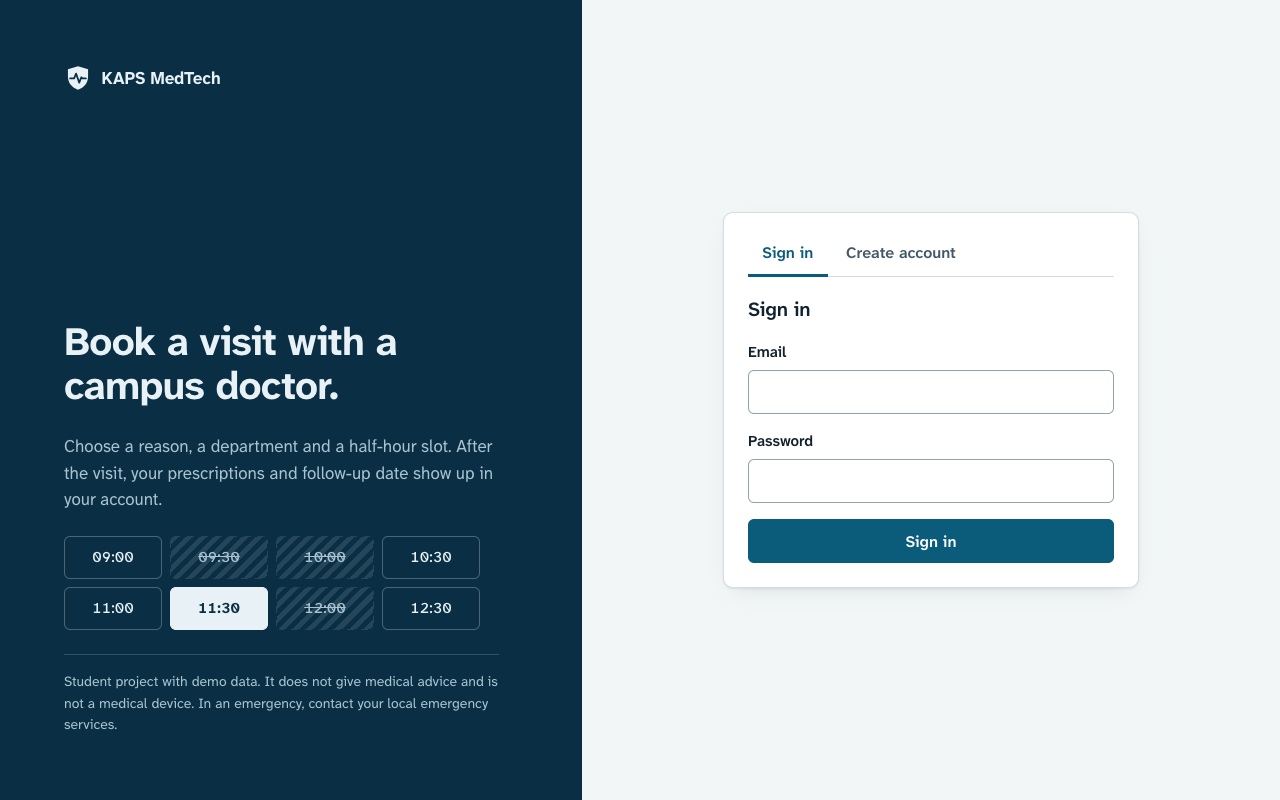
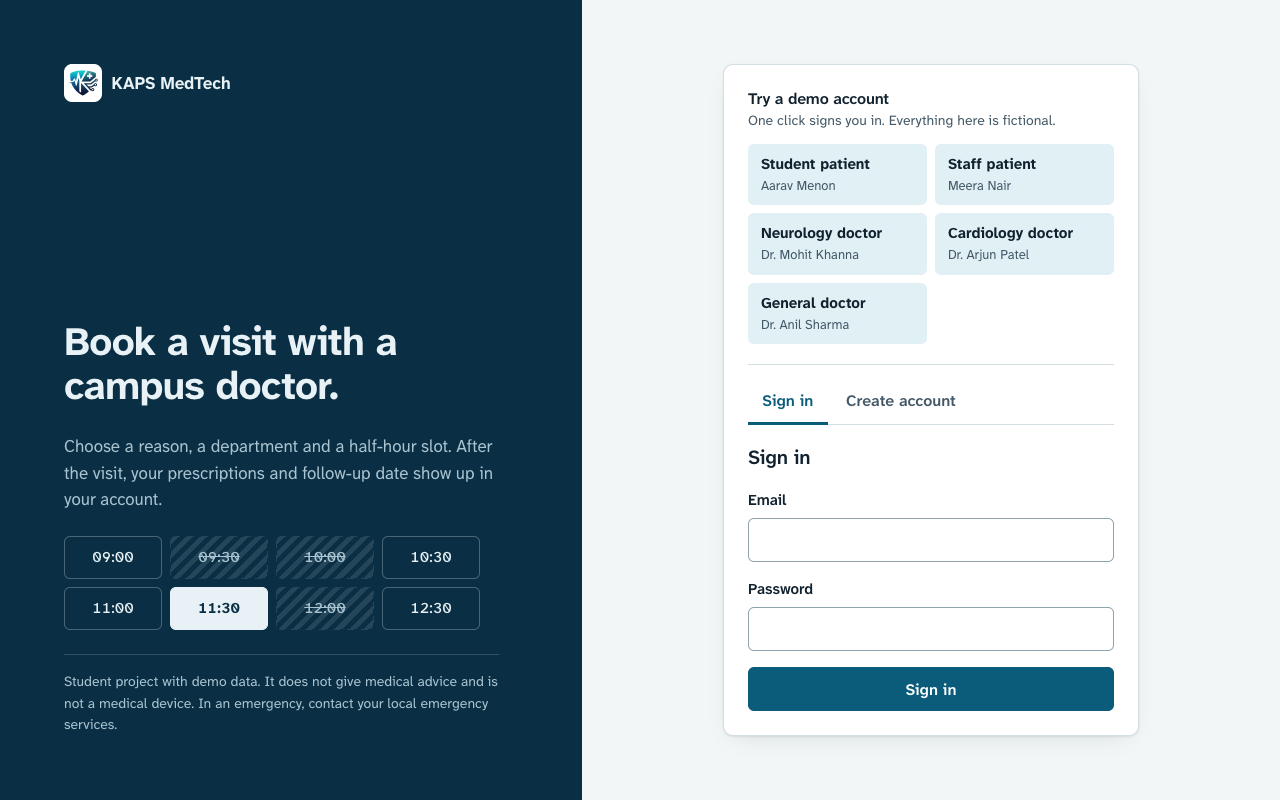
docs: demo credentials, new features, env, limits; refresh screenshots and API notes

diff --git a/README.md b/README.md
@@ -4,7 +4,7 @@
 
 A university clinic booking app. Students and staff pick a reason for a visit, a department, a doctor and a half-hour slot. Doctors work through a queue, record a diagnosis and prescriptions, and the patient sees the result in their account. It is a course project, built with Express, PostgreSQL and plain JavaScript.
 
-Hosted copy: https://kaps-medtech.vercel.app. It runs on free tiers. Its database is a free Neon project that can be paused or removed, and `/api/health` on that URL shows whether the database is reachable.
+Hosted copy: https://kaps-medtech.vercel.app. It runs on free tiers. The database behind it can be paused or removed, and `/api/health` on that URL shows whether it is reachable. At the last check (26 October 2026) the database was gone; [docs/DEPLOYMENT.md](docs/DEPLOYMENT.md) explains how to bring up a new one.
 
 ![Sign-in page](docs/screenshots/login-desktop.png)
 
@@ -14,17 +14,21 @@ This is a student project with fictional demo data. It gives no medical advice a
 
 ## What it does
 
-Students and staff can book with a doctor in three steps. While they type a reason, the page suggests a department and warns if they choose a different one. They can list and filter their appointments, open the record of a finished visit, see the medicines that are still running (a prescription drops off the list when its duration ends) and see upcoming follow-up dates.
+Students and staff book with a doctor in three steps. While they type a reason, the page suggests a department and warns if they choose a different one. Each doctor card shows the days and hours that doctor works, and the time picker only offers slots inside them. Patients can list and filter their appointments, reschedule or cancel a booked one, open the record of a finished visit (with any attached report), see the medicines that are still running (a prescription drops off the list when its duration ends) and see upcoming follow-up dates.
 
-Doctors see their booked appointments grouped by day. Starting a visit shows the patient's earlier records. The treatment form takes a diagnosis, advice, a follow-up date, up to 20 prescriptions and an optional PNG, JPEG, WebP, GIF or PDF report up to 2 MB. Saving it marks the visit complete. Doctors can also cancel an appointment.
+Doctors see their booked appointments grouped by day. Starting a visit shows the patient's earlier records. The treatment form takes a diagnosis, advice, a follow-up date, up to 20 prescriptions and an optional PNG, JPEG, WebP, GIF or PDF report up to 2 MB. Saving it marks the visit complete. Doctors can also cancel an appointment. On the Availability tab they set their working days and hours and add blocks of days off; bookings that already exist are kept and the doctor is told how many fall outside the new settings. Patient lookups, saved records and doctor cancellations are written to an audit table.
 
 | Booking | Appointments on a phone |
 | --- | --- |
 | ![Booking page with a department suggestion](docs/screenshots/student-booking-desktop.png) | ![Appointments list at 390px](docs/screenshots/student-appointments-mobile.png) |
 
-| Doctor queue | Treatment form |
+| Doctor queue | Availability |
 | --- | --- |
-| ![Doctor queue](docs/screenshots/doctor-queue-desktop.png) | ![Treatment form](docs/screenshots/doctor-treatment-desktop.png) |
+| ![Doctor queue](docs/screenshots/doctor-queue-desktop.png) | ![Doctor availability](docs/screenshots/doctor-availability-desktop.png) |
+
+| Treatment form | Records and medicines |
+| --- | --- |
+| ![Treatment form](docs/screenshots/doctor-treatment-desktop.png) | ![Medicines](docs/screenshots/student-medicines-desktop.png) |
 
 ## How it is put together
 
@@ -43,11 +47,13 @@ git clone https://github.com/pushpam2404/KAPS-Medtech.git
 cd KAPS-Medtech
 npm ci
 cp .env.example backend/.env     # then fill in DATABASE_URL and JWT_SECRET
-npm run db:init                  # creates the tables and demo data
+npm run db:reset:demo            # tables, doctors, symptoms and a demo clinic's worth of data
 npm start                        # http://localhost:3001
 ```
 
-`npm run db:init` drops and recreates every table, so use an empty database.
+The sign-in page then shows the demo accounts as one-click buttons.
+
+`npm run db:init` creates only the tables, the 65 seeded doctors and the symptom list. `npm run db:seed:demo` adds the demo patients and visits to a database that has the schema (or to an empty one) and can be run repeatedly. `npm run db:migrate` upgrades an older database without dropping anything. Every command that loads `schema.sql` drops existing tables, so use an empty database.
 
 Environment variables (see `.env.example`):
 
@@ -58,35 +64,50 @@ Environment variables (see `.env.example`):
 | `PORT` | no | defaults to 3001 |
 | `DOCTOR_SIGNUP_CODE` | no | doctors can register themselves only if this is set, and must enter it |
 | `ALLOWED_ORIGINS` | no | comma-separated origins for cross-site API calls |
-| `DB_SSL` | no | `true` to force SSL for databases other than Neon and Supabase |
+| `DATABASE_SSL` | no | `verify` (default whenever SSL is used), `relaxed` (encrypt, skip the certificate check) or `off` |
+| `DATABASE_CA` | no | PEM text of an extra CA to trust, for a private CA such as Supabase's pooler |
+| `DEMO_MODE` | no | `off` hides the demo accounts on the sign-in page |
+| `ALLOW_DEMO_SEED` | no | `1` lets the demo seed commands run when `NODE_ENV=production` |
 
 ## Demo accounts
 
-The seed data creates 65 doctors, five per department, with emails like `gp1@health.edu`, `cardio1@health.edu`, `neuro1@health.edu`, `ortho1@health.edu` and `dent1@health.edu`. All of them use the password `password123`. That is the reason to change or delete them before using the code for anything real. Dr. Mohit Khanna (neurology) is `neuro1@health.edu`.
+Every demo account uses the password `password123`.
 
-There are no seeded patients. Create one on the sign-up tab and book with any doctor. To see the doctor side, sign in as that doctor.
+| Role | Name | Email |
+| --- | --- | --- |
+| Student patient | Aarav Menon | `aarav.menon@example.edu` |
+| Staff patient | Meera Nair | `meera.nair@example.edu` |
+| Doctor, neurology | Dr. Mohit Khanna | `neuro1@health.edu` |
+| Doctor, cardiology | Dr. Arjun Patel | `cardio1@health.edu` |
+| Doctor, general medicine | Dr. Anil Sharma | `gp1@health.edu` |
+
+Those are the roles the app has: student, staff and doctor. The seeded doctors in every department follow the pattern `gp1`, `cardio1`, `pulmo1`, `gas1`, `neuro1`, `ortho1`, `derma1`, `psy1`, `ent1`, `eye1`, `endo1`, `neph1`, `dent1` at `@health.edu`, with numbers 1 to 5 in each.
+
+The demo seed gives Aarav and Meera finished visits with diagnoses, prescriptions and generated sample reports (a small chart image and a PDF), medicines that are still running and some that have ended, follow-up dates, upcoming bookings and a cancelled one. Dr. Khanna has six booked patients today. Dr. Patel works Tuesday to Saturday, 10:00 to 16:00, with a block of days off next week; Dr. Menon (orthopedics) sees patients on Monday, Wednesday and Friday. Six more patients fill the queues. Dates are relative to the day you seed, so run `npm run db:seed:demo` again if the data has gone stale.
+
+Doctor sign-up still needs `DOCTOR_SIGNUP_CODE`. The demo doctors do not, because they come from the seed.
 
 ## Tests
 
 ```bash
-npm test                         # unit tests for slots, durations, symptom matching and input checks
+npm test                         # unit tests for slots, availability, durations, symptom matching, input checks and TLS settings
 DATABASE_URL=postgresql://... npm run test:integration
 ```
 
-The integration suite starts the app on a random port and runs against whatever database `DATABASE_URL` points to, after `npm run db:init`. It covers sign-up and login rules, booking, rescheduling, four simultaneous bookings of one slot, doctor access limits, record validation and cancellation. It adds test users and appointments, so do not point it at a database you care about. GitHub Actions runs both suites against PostgreSQL 16 on every push (`.github/workflows/ci.yml`).
+The integration suite starts the app on a random port and runs against whatever database `DATABASE_URL` points to, after `npm run db:init`. It covers sign-up and login rules, booking, rescheduling and patient cancellation, four simultaneous bookings of one slot, doctor access limits, record validation, availability and days off, and running the demo seed twice. It adds test users and appointments, so do not point it at a database you care about. GitHub Actions runs both suites against PostgreSQL 16 on every push (`.github/workflows/ci.yml`).
 
 ## Deploying
 
-[docs/DEPLOYMENT.md](docs/DEPLOYMENT.md) covers Neon and Vercel. Set `JWT_SECRET` and `DATABASE_URL` as environment variables there, never in the repository.
+[docs/DEPLOYMENT.md](docs/DEPLOYMENT.md) covers a fresh free Neon database (`scripts/setup-neon.sh`) and Vercel. Set `JWT_SECRET` and `DATABASE_URL` as environment variables there, never in the repository.
 
 ## Limitations
 
-- Slots are the same for every doctor (09:00 to 17:00 in half hours). Doctor availability is not modelled.
-- Patients cannot cancel their own appointments, and the web UI has no reschedule screen even though the API supports it.
+- Every doctor's slots are half an hour long, and a doctor has one set of working hours for all their working days.
 - The rate limiter keeps its counts in memory, so on serverless hosting it only slows guessing down.
-- Reports are stored as base64 text in the database, and the login token is kept in `localStorage`.
-- There is no email or SMS reminder, password reset or audit log.
-- Hosted databases are connected without certificate verification (`rejectUnauthorized: false` in `backend/db.js`).
+- Reports are stored as base64 text in the database, and the login token is kept in `localStorage`, so a script-injection bug would expose it. Output is escaped and a Content-Security-Policy is sent, but httpOnly cookies would be safer. I left the token where it is because moving it touches every request and was not worth the risk here.
+- There is no email or SMS reminder, no password reset, and no screen for reading the audit table.
+- Hosted databases are connected with certificate verification. Neon works as is; Supabase's pooler needs `DATABASE_CA` or `DATABASE_SSL=relaxed`.
+- The demo password is shared and public. Set `DEMO_MODE=off` and remove the demo accounts before any real use.
 
 ## License
 

diff --git a/docs/API.md b/docs/API.md
@@ -28,17 +28,16 @@ Returns 201 on success, 400 for bad input, 403 for a doctor signup without a val
 | Route | What it does |
 | --- | --- |
 | `GET /api/appointments/symptoms?q=` | Symptom dictionary. With `q`, up to 10 rows ranked by how well they match the text. No login needed. |
-| `GET /api/appointments/doctors?department=` | Doctors, optionally for one department. |
-| `GET /api/appointments/slots?doctor_id=&date=` | Free slots for that doctor and day. |
-| `POST /api/appointments/book` | Body `{ doctor_id, date, time, symptom }`. 201, or 409 if the slot is taken, 400 for a past date, a time that is not a slot, or an unknown doctor. |
+| `GET /api/appointments/doctors?department=` | Doctors, optionally for one department, with `working_days` (ISO, 1 = Monday), `start_time` and `end_time`. |
+| `GET /api/appointments/slots?doctor_id=&date=` | Free slots for that doctor and day. Empty on a non-working weekday or a day off; 404 for an unknown doctor. |
+| `POST /api/appointments/book` | Body `{ doctor_id, date, time, symptom }`. 201, or 409 if the slot is taken, 400 for a past date, a time outside the doctor's hours or working days (or a day off), or an unknown doctor. |
 | `GET /api/appointments/my-appointments` | Booked appointments. `?filter=date&start=&end=` or `?filter=reason&q=` returns every status. |
-| `PUT /api/appointments/:id/reschedule` | Body `{ date, time }`. Own, still-booked appointments only. |
+| `PUT /api/appointments/:id/reschedule` | Body `{ date, time }`. Own, still-booked appointments only; same rules as booking. |
+| `POST /api/appointments/:id/cancel` | Cancels the patient's own booked appointment. 400 if it is not booked, 403 if it is not theirs. |
 | `GET /api/appointments/medical-records` | Own records with prescriptions. |
 | `GET /api/appointments/:id/record` | One record. Allowed for the patient and the treating doctor. |
 | `GET /api/appointments/my-medicine` | Prescriptions whose duration has not run out. A duration that is not a number of days ("ongoing") never runs out. |
 | `GET /api/appointments/reminders` | Follow-up dates from today onward. |
-
-The web UI does not call `reschedule` yet.
 
 ## Doctors (role `doctor`)
 
@@ -49,6 +48,14 @@ The web UI does not call `reschedule` yet.
 | `POST /api/doctor/record` | Completes a booked appointment of this doctor's. Body: `appointment_id`, `diagnosis`, optional `advice`, `follow_up_date`, `prescriptions` (`[{ name, dosage, freq, duration }]`, at most 20), `attached_reports` and `patient_updates` (`{ phone, identifier }`). `attached_reports` is a base64 data URL for PNG, JPEG, WebP, GIF or PDF, about 2 MB at most. All of it happens in one transaction. |
 | `POST /api/doctor/cancel` | Body `{ appointment_id }`. Cancels one of this doctor's booked appointments. |
 
+| `GET /api/doctor/availability` | `{ start_time, end_time, working_days, days_off: [{ id, start_date, end_date, reason }] }` for this doctor (upcoming days off only). |
+| `PUT /api/doctor/availability` | Body `{ start_time, end_time, working_days }`. Half-hour times between 06:00 and 22:00, end after start, at least one day. Also returns `outside_new_hours`, the number of booked future appointments that no longer fit. They are not moved. |
+| `POST /api/doctor/days-off` | Body `{ start_date, end_date, reason }` (`end_date` optional). Not in the past, at most a year. Returns `{ id, booked_in_range }`. |
+| `DELETE /api/doctor/days-off/:id` | Removes one of this doctor's blocks. |
+
 ## Other
+
+`GET /api/demo-accounts` returns `{ password, accounts }` for the sign-in page's demo buttons, or an empty list when `DEMO_MODE=off`.
+
 
 `GET /api/health` returns 200 when the database answers and 503 when it does not.

diff --git a/docs/ARCHITECTURE.md b/docs/ARCHITECTURE.md
@@ -20,11 +20,16 @@ On Vercel the same app runs as one serverless function (`vercel.json` sends ever
 backend/
   server.js        app setup; exports the app so tests can start it on any port
   db.js            pg pool, DATE columns returned as strings
-  schema.sql       tables, indexes, demo doctors and symptoms
-  init_db.js       loads schema.sql
+  schema.sql       tables, indexes, 65 seeded doctors and the symptom list
+  migrations.sql   idempotent upgrade for an existing database (npm run db:migrate)
+  init_db.js       loads schema.sql or migrations.sql
+  seed_demo.js     demo patients, visits, reports; guarded against production
   routes/          auth, appointments (patients), doctor
   middleware/      JWT check, doctor-only check, rate limiter, error handler
-  lib/clinic.js    slots, durations, symptom matching (no database)
+  lib/clinic.js    slots, availability, durations, symptom matching (no database)
+  lib/schedule.js  what a doctor offers on a date, from the database
+  lib/ssl.js       TLS settings for the database connection
+  lib/audit.js, lib/demo.js
   lib/validate.js  input checks (no database)
 frontend/          index.html, dashboard_user.html, dashboard_doctor.html, css/, js/
 test/unit          tests for lib/
@@ -33,7 +38,7 @@ test/integration   API tests against a real PostgreSQL
 
 ## Data
 
-Six tables: `Users`, `Doctors` (one per doctor user), `Symptoms` (name to department), `Appointments`, `MedicalRecords` (one per completed appointment) and `Prescriptions`.
+Eight tables: `Users`, `Doctors` (one per doctor user, with working hours and ISO working days), `DoctorDaysOff`, `Symptoms` (name to department), `Appointments`, `MedicalRecords` (one per completed appointment), `Prescriptions` and `AuditLog`.
 
 `Appointments` has a partial unique index on `(doctor_id, appointment_date, appointment_time) WHERE status <> 'Cancelled'`. The booking route does not check first and then insert; it inserts and turns the unique violation into a 409. That is the only approach that holds when two requests arrive together, and `test/integration/api.test.js` fires four at once to check it.
 
@@ -52,6 +57,6 @@ No framework or build step. Every string from the API goes through `App.esc()` b
 ## Known limits
 
 - The rate limiter keeps counts in memory, so on serverless hosting each warm instance counts on its own.
-- `db.js` connects to hosted databases with `rejectUnauthorized: false`.
-- Slots are fixed (09:00 to 17:00 in half hours for every doctor); the `availability_*` columns in `Doctors` are not used.
+- Database TLS verifies certificates by default (`lib/ssl.js`). Neon passes; Supabase's pooler has a private CA and needs `DATABASE_CA` or `DATABASE_SSL=relaxed`.
+- Slots are half an hour and each doctor has one set of hours for all working days. Changing hours or adding days off never moves existing bookings.
 - Dates compare against the database server's clock with one day of slack, since users and the server can be in different timezones.
